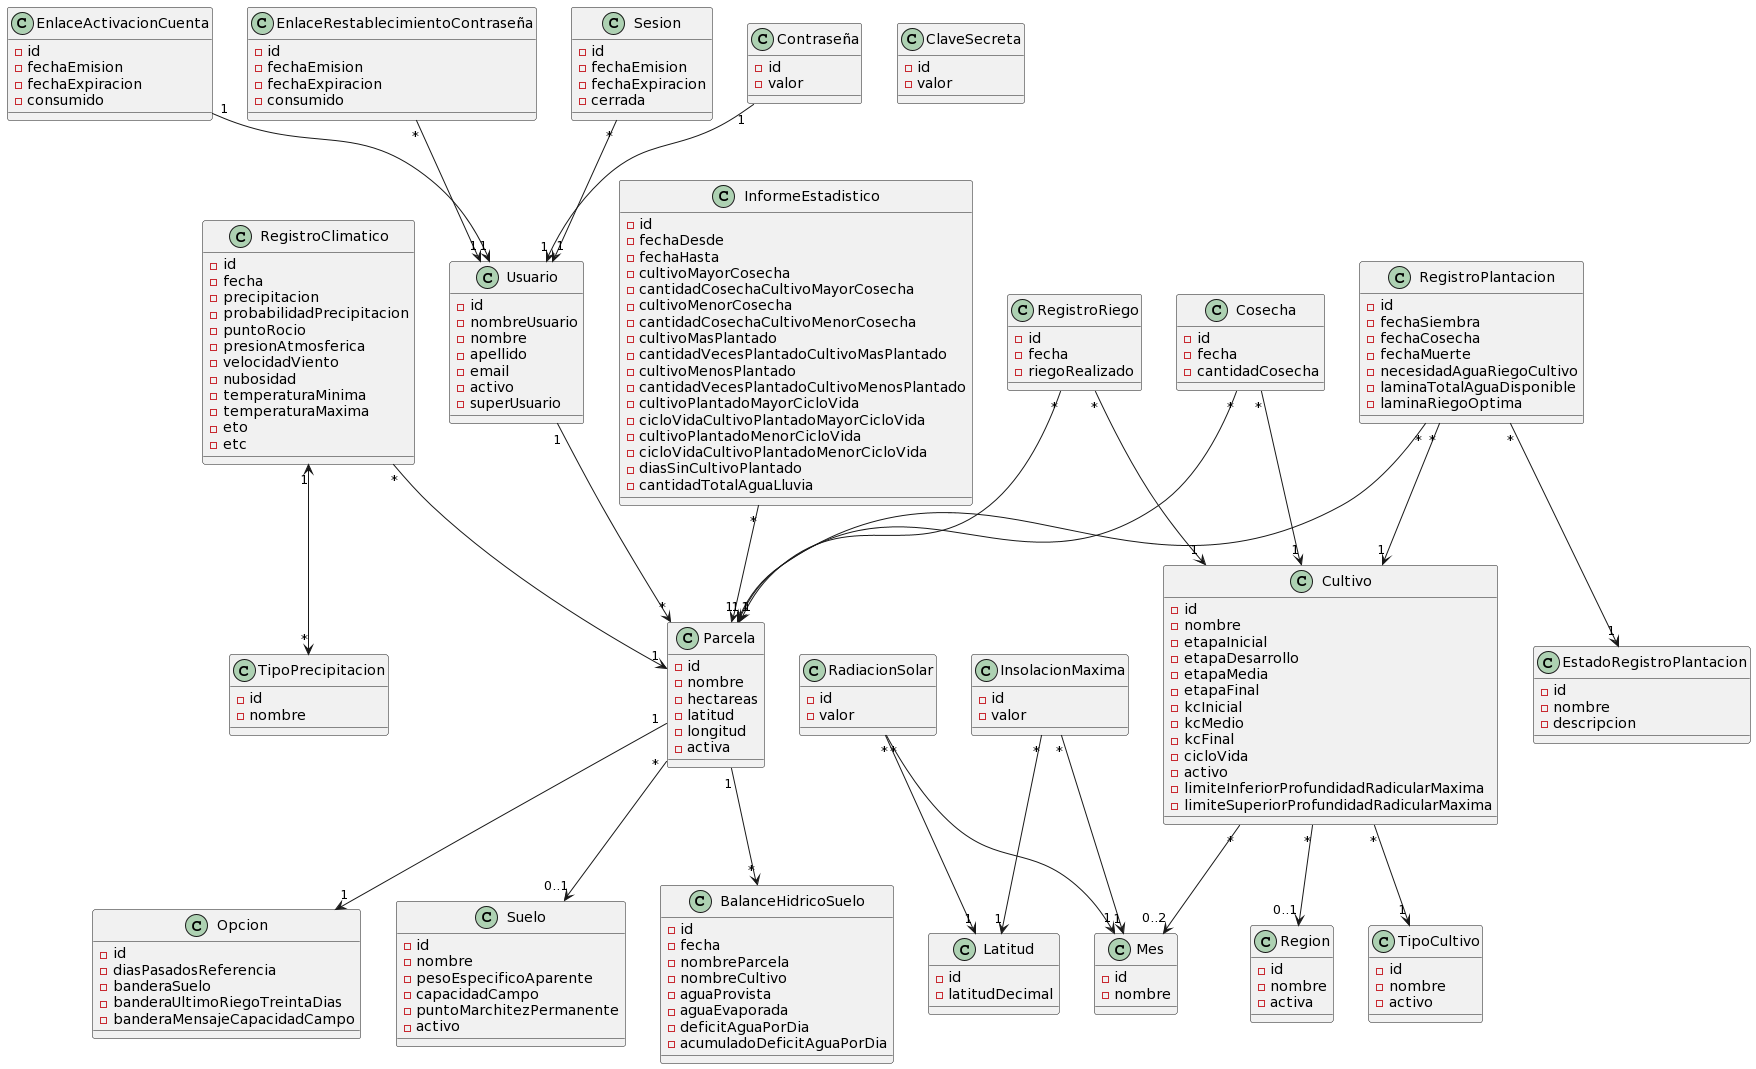
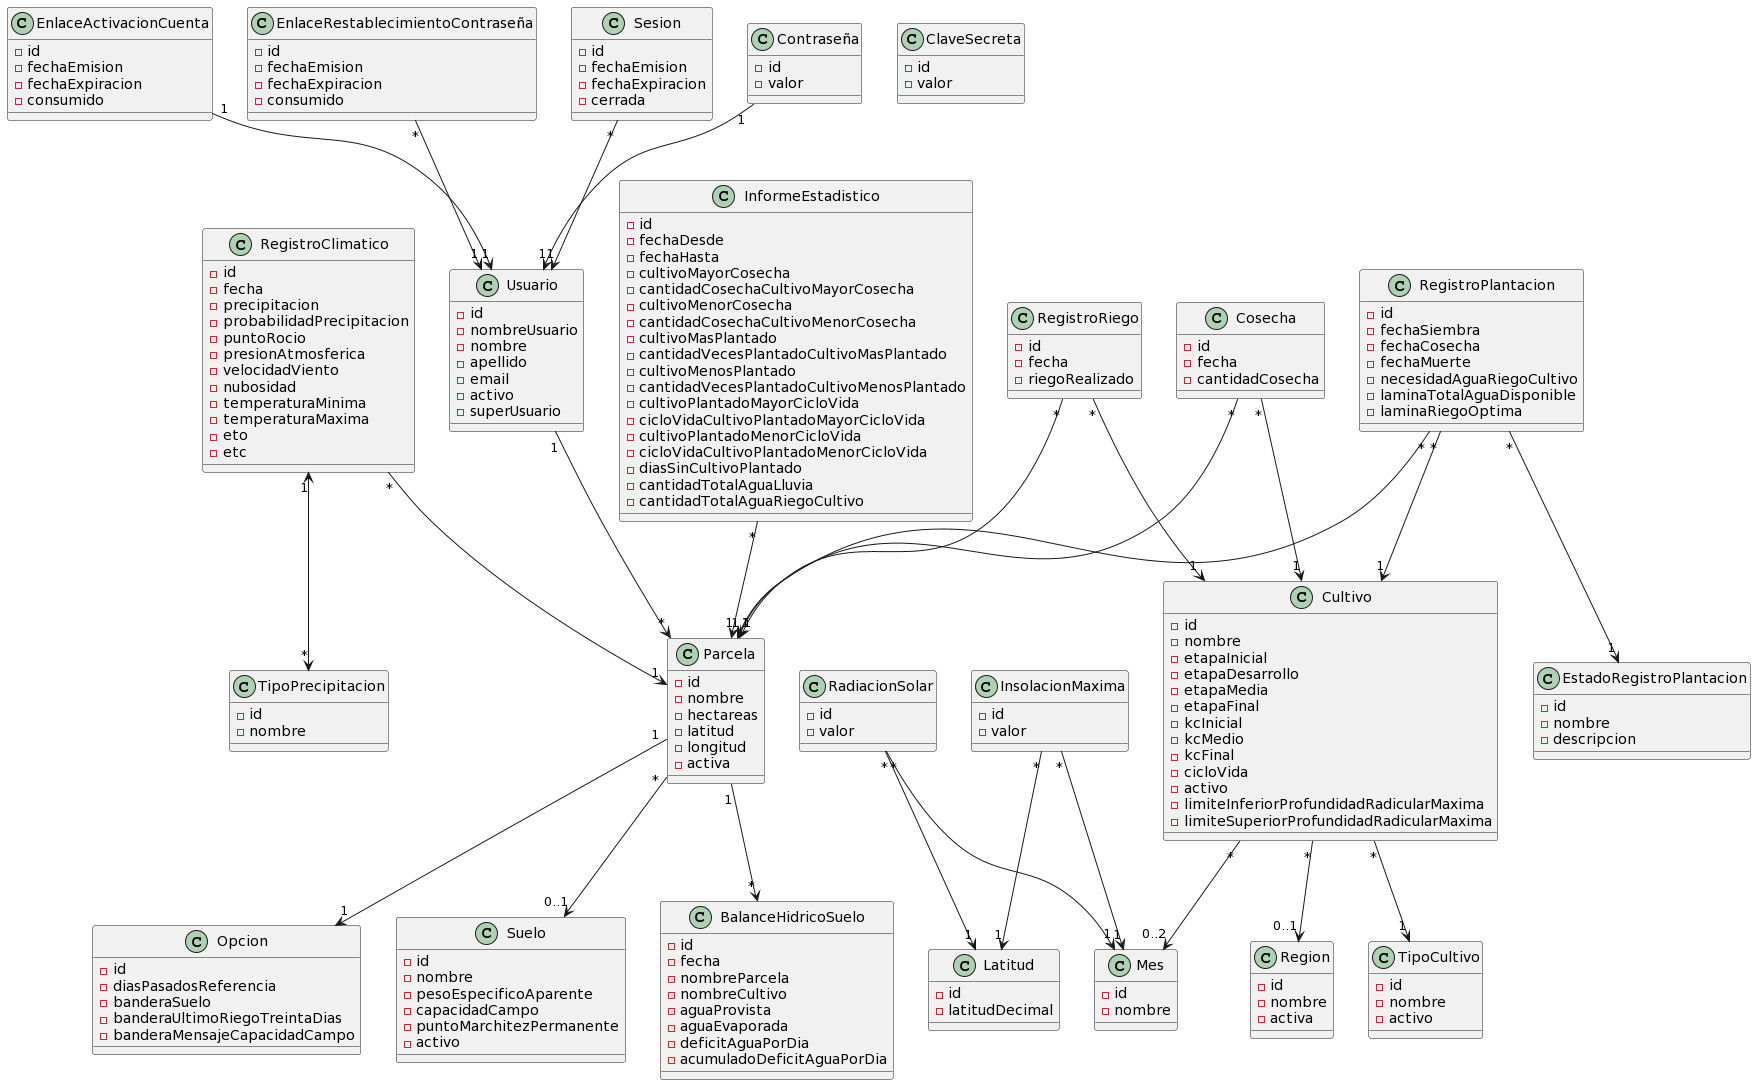
Tarea #339 terminada

diff --git a/app/public/partials/user/statistical-report-form.html b/app/public/partials/user/statistical-report-form.html
@@ -278,6 +278,16 @@
 				</div>
 			</div>
 
+			<div class="form-group" ng-hide="action == 'new'">
+				<label for="statisticalReport_totalAmountCropIrrigationWater" class="col-md-2 control-label">Cantidad
+					total de agua utilizada para el riego de cultivos [mm/período]
+				</label>
+				<div class="col-md-3">
+					<input type="text" class="form-control" id="statisticalReport_totalAmountCropIrrigationWater"
+						ng-model="data.totalAmountCropIrrigationWater" ng-disabled="action == 'view'">
+				</div>
+			</div>
+
 			<div class="form-group">
 				<div class="col-md-offset-2 col-md-3">
 					<button type="submit" class="btn btn-success" ng-click="create()"

diff --git a/app/src/stateless/IrrigationRecordServiceBean.java b/app/src/stateless/IrrigationRecordServiceBean.java
@@ -435,6 +435,69 @@ public class IrrigationRecordServiceBean {
     return false;
   }
 
+  /**
+   * @param parcelId
+   * @param dateFrom
+   * @param dateUntil
+   * @return double que representa la cantidad total de agua
+   * utilizada para el riego de cultivos sembrados y cosechados
+   * en una parcela durante un periodo definido por dos fechas
+   */
+  public double calculateTotalAmountCropIrrigationWater(int parcelId, Calendar dateFrom, Calendar dateUntil) {
+    /*
+     * Selecciona la fecha de siembra y la fecha de cosecha de
+     * un conjunto de registros de plantacion finalizados de una
+     * parcela que cumplen con una de las siguientes condiciones:
+     * - la fecha desde es mayor o igual a la fecha de siembra y
+     * menor o igual a la fecha de cosecha, y la fecha hasta es
+     * estrictamente mayor a la fecha de cosecha.
+     * - la fecha de siembra es mayor o igual a la fecha desde y
+     * la fecha de cosecha es menor o igual a la fecha hasta.
+     * - la fecha hasta es mayor o igual a la fecha de siembra y
+     * menor o igual a la fecha de cosecha, y la fecha desde es
+     * estrictamente menor a la fecha de siembra.
+     */
+    String dateSelectionQuery = "SELECT FK_PARCEL, SEED_DATE, HARVEST_DATE FROM PLANTING_RECORD "
+        + "WHERE FK_PARCEL = ?1 AND FK_STATUS = 1 AND "
+        + "((SEED_DATE <= ?2 AND ?2 <= HARVEST_DATE AND ?3 > HARVEST_DATE) "
+        + "OR (SEED_DATE >= ?2 AND HARVEST_DATE <= ?3) "
+        + "OR (SEED_DATE <= ?3 AND ?3 <= HARVEST_DATE AND ?2 < SEED_DATE)) "
+        + "ORDER BY SEED_DATE";
+
+    /*
+     * Calcula la cantidad total de agua utilizada para el riego
+     * de cultivos sembrados y cosechados en una parcela durante un
+     * periodo definido por dos fechas. Hay que tener en cuenta que
+     * esta consulta calcula dicha cantidad unicamente para cultivos
+     * cosechados (finalizados), ya que la consulta de seleccion de
+     * fechas de registros de plantacion selecciona las fechas de
+     * registros de plantacion que tiene el estado "Finalizado", el
+     * cual tiene el ID 1 siempre y cuando no se modifique el orden
+     * de su sentencia INSERT en el archivo plantingRecordStatusInserts.sql
+     * de la ruta app/etc/sql.
+     */
+    String queryString = "SELECT SUM(IRRIGATION_DONE) FROM IRRIGATION_RECORD "
+        + "WHERE FK_PARCEL = ?1 AND ?2 <= DATE AND DATE <= ?3 "
+        + "AND DATE IN (SELECT DISTINCT DATE FROM IRRIGATION_RECORD JOIN (" + dateSelectionQuery + ") AS DATES ON "
+        + "IRRIGATION_RECORD.FK_PARCEL = DATES.FK_PARCEL WHERE "
+        + "IRRIGATION_RECORD.FK_PARCEL = ?1 AND DATES.SEED_DATE <= DATE AND DATE <= DATES.HARVEST_DATE)";
+
+    Query query = getEntityManager().createNativeQuery(queryString);
+    query.setParameter(1, parcelId);
+    query.setParameter(2, dateFrom);
+    query.setParameter(3, dateUntil);
+
+    double totalAmountCropIrrigationWater = 0.0;
+
+    try {
+      totalAmountCropIrrigationWater = (double) query.getSingleResult();
+    } catch (NoResultException e) {
+      e.printStackTrace();
+    }
+
+    return totalAmountCropIrrigationWater;
+  }
+
   public Page<IrrigationRecord> findAllPagination(int userId, Integer page, Integer cantPerPage, Map<String, String> parameters) {
     // Genera el WHERE dinámicamente
     StringBuffer where = new StringBuffer(" WHERE 1=1 AND e IN (SELECT t FROM IrrigationRecord t JOIN t.parcel p WHERE p IN (SELECT x FROM User u JOIN u.parcels x WHERE u.id = :userId))");

diff --git a/app/src/servlet/StatisticalReportRestServlet.java b/app/src/servlet/StatisticalReportRestServlet.java
@@ -34,6 +34,7 @@ import stateless.PlantingRecordServiceBean;
 import stateless.SessionServiceBean;
 import stateless.CropServiceBean;
 import stateless.HarvestServiceBean;
+import stateless.IrrigationRecordServiceBean;
 import stateless.Page;
 import util.PersonalizedResponse;
 import util.ErrorResponse;
@@ -61,6 +62,9 @@ public class StatisticalReportRestServlet {
 
   @EJB
   PlantingRecordServiceBean plantingRecordService;
+
+  @EJB
+  IrrigationRecordServiceBean irrigationRecordService;
 
   @EJB
   CropServiceBean cropService;
@@ -1045,14 +1049,16 @@ public class StatisticalReportRestServlet {
     int parcelId = statisticalReport.getParcel().getId();
     Calendar dateFrom = statisticalReport.getDateFrom();
     Calendar dateUntil = statisticalReport.getDateUntil();
+    String nonExistentCrop = plantingRecordService.getNonExistentCrop();
 
     double higherHarvest = 0;
     double lowerHarvest = 0;
+    double totalAmountCropIrrigationWater = irrigationRecordService.calculateTotalAmountCropIrrigationWater(parcelId, dateFrom, dateUntil);
+
     int quantityMostPlantedCrop = 0;
     int quantityLesstPlantedCrop = 0;
     int lifeCycleCropLongestLifeCyclePlanted = 0;
     int lifeCycleCropShortestLifeCyclePlanted = 0;
-    String nonExistentCrop = plantingRecordService.getNonExistentCrop();
 
     String cropHighestHarvest = harvestServiceBean.findCropHighestHarvest(parcelId, dateFrom, dateUntil);
     String cropLowerHarvest = harvestServiceBean.findCropLowerHarvest(parcelId, dateFrom, dateUntil);
@@ -1194,6 +1200,7 @@ public class StatisticalReportRestServlet {
     statisticalReport.setLifeCycleCropLongestLifeCyclePlanted(lifeCycleCropLongestLifeCyclePlanted);
     statisticalReport.setCropShortestLifeCyclePlanted(cropShortestLifeCyclePlanted);
     statisticalReport.setLifeCycleCropShortestLifeCyclePlanted(lifeCycleCropShortestLifeCyclePlanted);
+    statisticalReport.setTotalAmountCropIrrigationWater(totalAmountCropIrrigationWater);
 
     /*
      * El metodo calculateDaysWithoutCrops retorna el valor

diff --git a/app/src/model/StatisticalReport.java b/app/src/model/StatisticalReport.java
@@ -72,6 +72,9 @@ public class StatisticalReport {
   @Column(name = "TOTAL_AMOUNT_RAINWATER")
   private String totalAmountRainwater;
 
+  @Column(name = "TOTAL_AMOUNT_CROP_IRRIGATION_WATER")
+  private double totalAmountCropIrrigationWater;
+
   @ManyToOne
   @JoinColumn(name = "FK_PARCEL", nullable = false)
   private Parcel parcel;
@@ -210,6 +213,14 @@ public class StatisticalReport {
 
   public void setTotalAmountRainwater(String totalAmountRainwater) {
     this.totalAmountRainwater = totalAmountRainwater;
+  }
+
+  public double getTotalAmountCropIrrigationWater() {
+    return totalAmountCropIrrigationWater;
+  }
+
+  public void setTotalAmountCropIrrigationWater(double totalAmountCropIrrigationWater) {
+    this.totalAmountCropIrrigationWater = totalAmountCropIrrigationWater;
   }
 
   public Parcel getParcel() {
